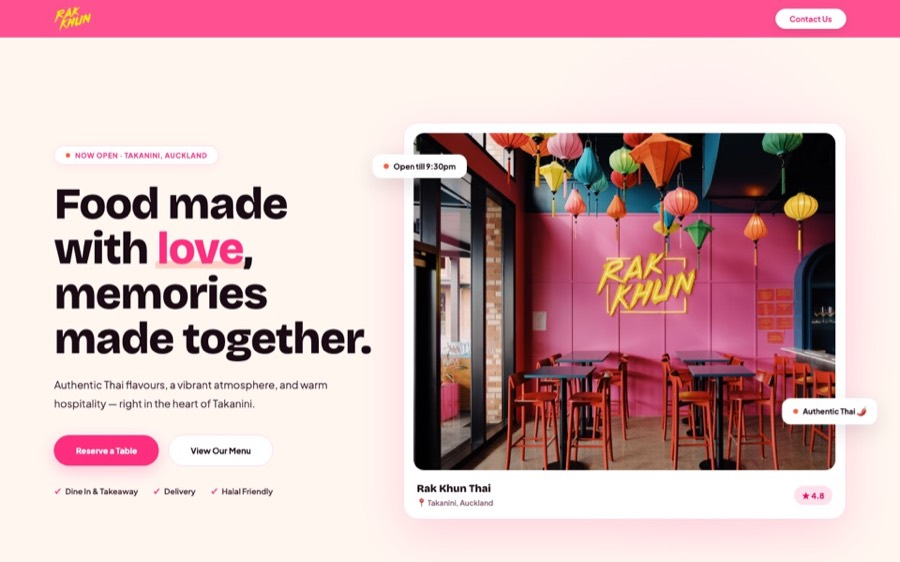
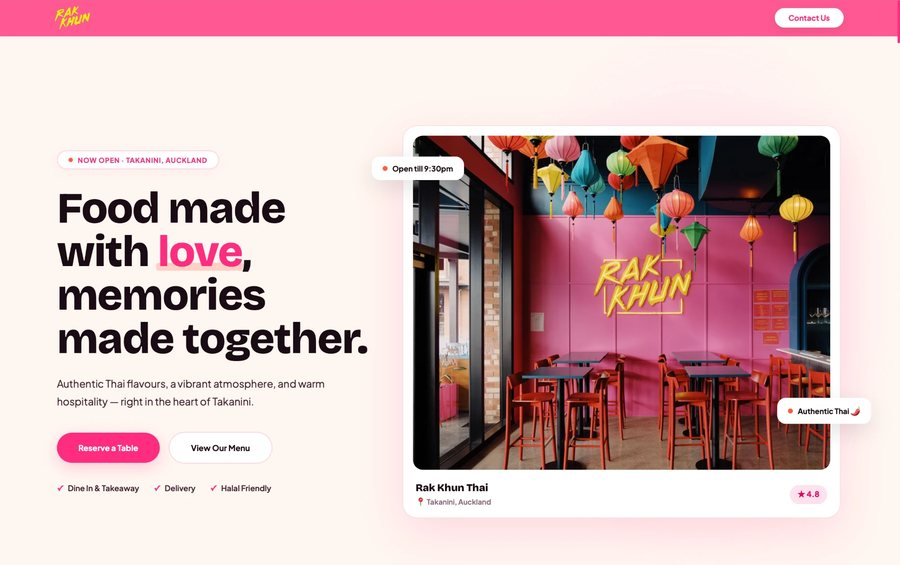
Projects: new Biblio, Agenti and Rak Khun screenshots at their own ratio
The three screenshots are replaced with current captures, cropped just
below the browser chrome so no other tabs show. Every preview on the
Projects page now renders at its natural aspect ratio: no fixed frame,
no object-fit crop. The width and height attributes match the files, so
nothing shifts as they load. The Restaurants page picks up the new
Rak Khun capture too.

Claude-Session: https://claude.ai/code/session_01SSGazEJT8798JFiYTgjDCn

diff --git a/projects.html b/projects.html
@@ -62,11 +62,14 @@
     transition: transform .45s cubic-bezier(.22,1,.36,1), box-shadow .45s cubic-bezier(.22,1,.36,1);
   }
   .proj:hover { transform: translateY(-6px); box-shadow: 0 30px 62px -26px rgba(34,51,63,.36), inset 0 1px 0 var(--g-spec); }
+  /* Each screenshot at its own ratio: nothing cropped, nothing
+     stretched. The card grows to fit the image rather than the other
+     way round. */
   .proj-shot {
-    border-radius: 18px; overflow: hidden; aspect-ratio: 16 / 11;
+    border-radius: 18px; overflow: hidden;
     box-shadow: 0 12px 28px -16px rgba(34,51,63,.4), inset 0 0 0 1px rgba(255,255,255,.55);
   }
-  .proj-shot img { width: 100%; height: 100%; object-fit: cover; object-position: top center; display: block; transition: transform .7s cubic-bezier(.22,1,.36,1); }
+  .proj-shot img { width: 100%; height: auto; display: block; transition: transform .7s cubic-bezier(.22,1,.36,1); }
   .proj:hover .proj-shot img { transform: scale(1.03); }
   .proj-body { display: flex; flex-direction: column; gap: .45rem; padding: 1.2rem .7rem .6rem; }
   .proj-tag { font-family: 'Raleway', sans-serif; font-size: .68rem; font-weight: 700; letter-spacing: .18em; text-transform: uppercase; color: var(--brand-ink); }
@@ -144,7 +147,7 @@
       <div class="proj-grid">
 
         <a class="proj glass" href="https://biblio.ink" target="_blank" rel="noopener">
-          <div class="proj-shot"><img src="/assets/biblio-preview.jpg" alt="Biblio, a 3D bookshelf web and iOS app" loading="lazy" width="1200" height="900"></div>
+          <div class="proj-shot"><img src="/assets/biblio-preview.jpg" alt="Biblio, a 3D bookshelf web and iOS app" loading="lazy" width="1600" height="1005"></div>
           <div class="proj-body">
             <span class="proj-tag">Web app &amp; native iOS</span>
             <h3>Biblio</h3>
@@ -155,7 +158,7 @@
         </a>
 
         <a class="proj glass" href="https://rakkhun.co.nz" target="_blank" rel="noopener">
-          <div class="proj-shot"><img src="/assets/rakkhun-preview.jpg" alt="Rak Khun Thai Eatery and Bar website" loading="lazy" width="1200" height="900"></div>
+          <div class="proj-shot"><img src="/assets/rakkhun-preview.jpg" alt="Rak Khun Thai Eatery and Bar website" loading="lazy" width="1600" height="1004"></div>
           <div class="proj-body">
             <span class="proj-tag">Restaurant &middot; full rebuild</span>
             <h3>Rak Khun Thai Eatery &amp; Bar</h3>
@@ -166,7 +169,7 @@
         </a>
 
         <a class="proj glass" href="https://groov.nz" target="_blank" rel="noopener">
-          <div class="proj-shot"><img src="/assets/groovnz-preview.jpg" alt="Groov NZ online store" loading="lazy" width="1200" height="900"></div>
+          <div class="proj-shot"><img src="/assets/groovnz-preview.jpg" alt="Groov NZ online store" loading="lazy" width="1600" height="1040"></div>
           <div class="proj-body">
             <span class="proj-tag">E-commerce</span>
             <h3>Groov NZ</h3>
@@ -177,7 +180,7 @@
         </a>
 
         <a class="proj glass" href="https://agenti.nz" target="_blank" rel="noopener">
-          <div class="proj-shot"><img src="/assets/agenti-preview.jpg" alt="Agenti NZ brand and design system" loading="lazy" width="1200" height="900"></div>
+          <div class="proj-shot"><img src="/assets/agenti-preview.jpg" alt="Agenti NZ brand and design system" loading="lazy" width="1600" height="1004"></div>
           <div class="proj-body">
             <span class="proj-tag">Brand &amp; design system</span>
             <h3>Agenti NZ</h3>
